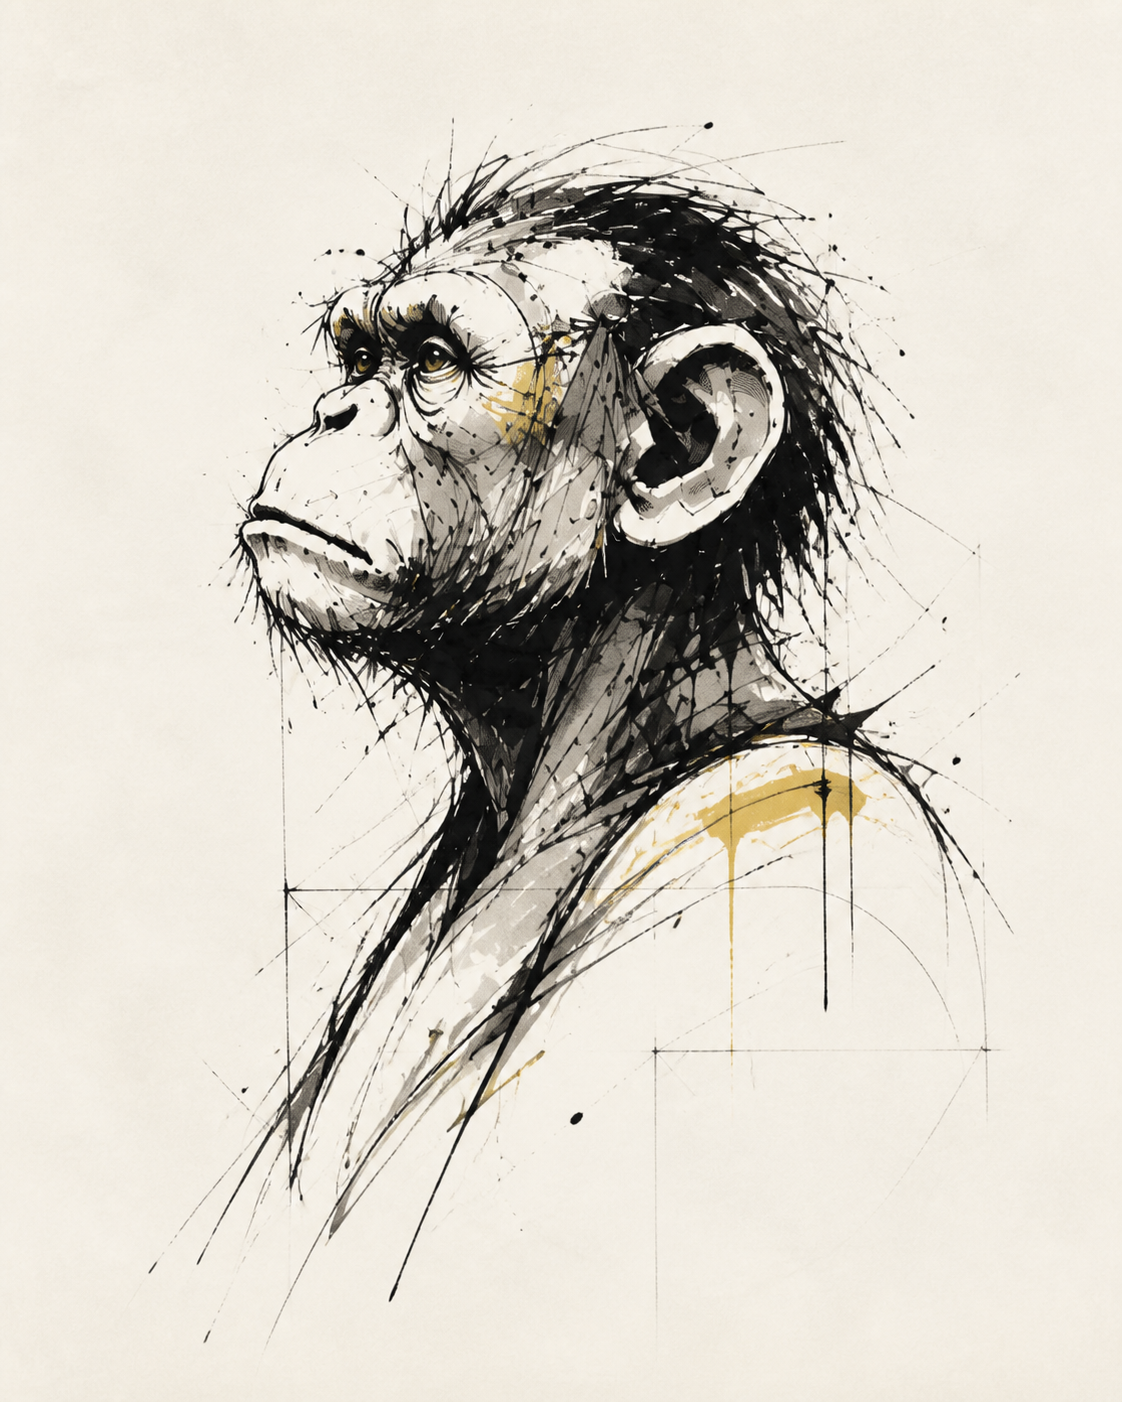
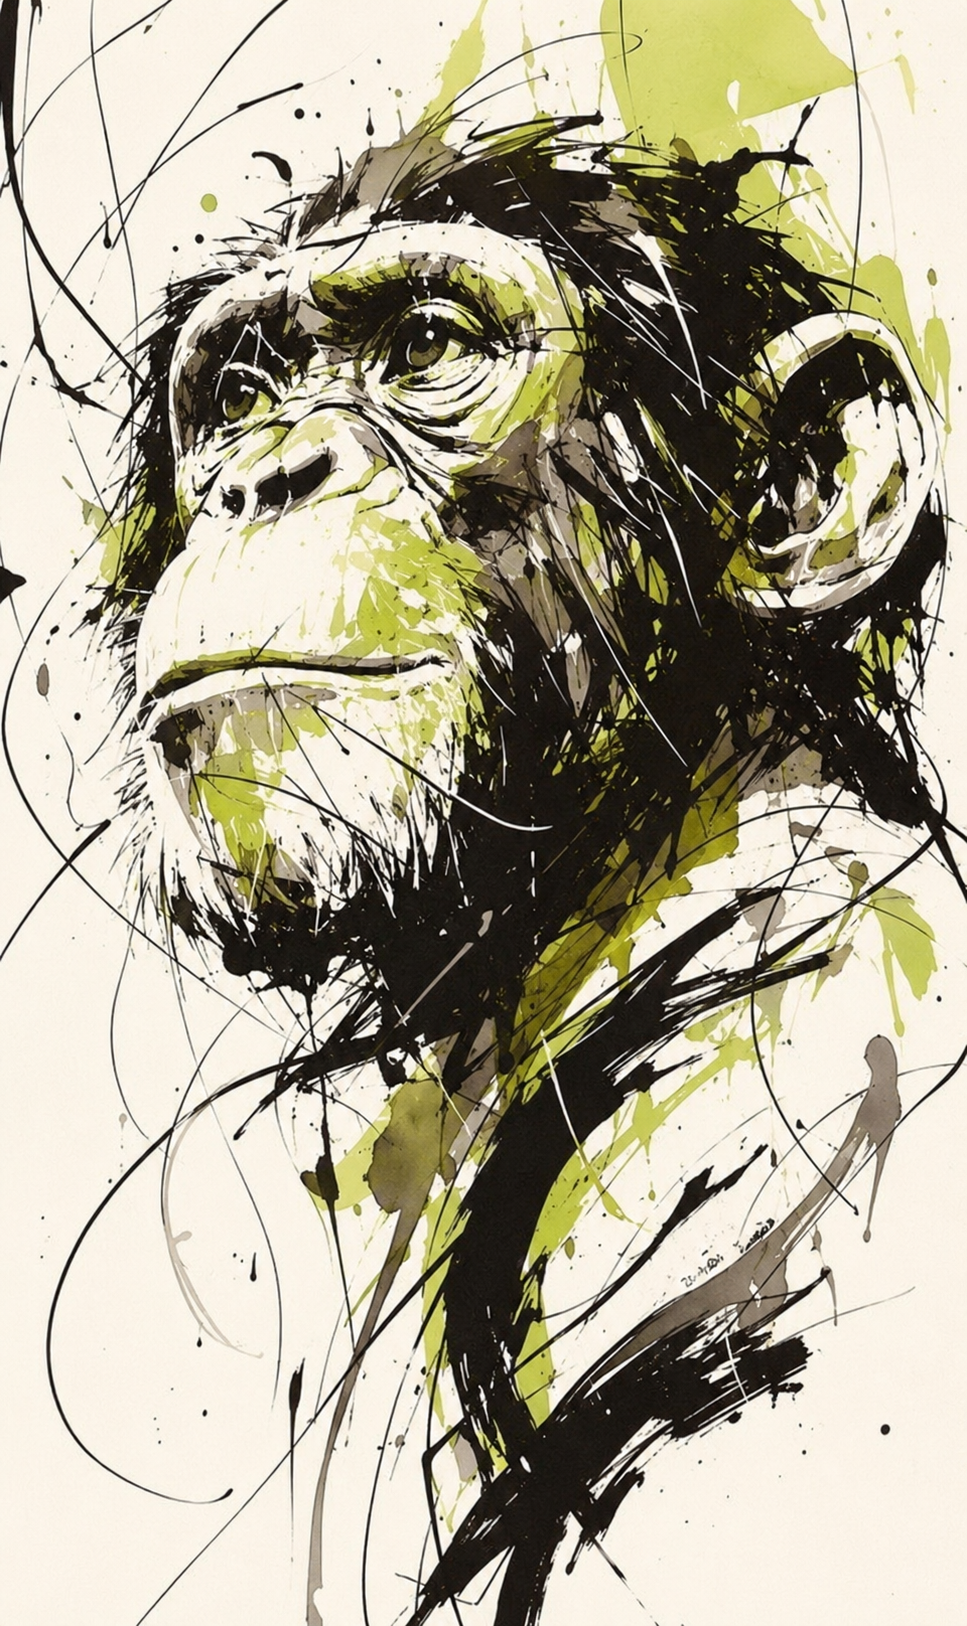
Replace chimpanzee portrait

diff --git a/app/globals.css b/app/globals.css
@@ -24,8 +24,8 @@ main { min-height:100vh; overflow:hidden; }
 .hero-copy h1,.page-intro h1,.phone-hero h1 { font-size:clamp(52px,8.4vw,126px); font-weight:520; line-height:.88; margin:22px 0 30px; }
 .hero-japanese { font-size:clamp(17px,1.8vw,26px); font-weight:760; } .hero-answer { border-left:6px solid var(--yellow); font-family:var(--font-geist-mono),monospace; font-size:11px; margin-top:20px; padding-left:12px; }
 .presence-strip { align-self:stretch; border-left:1px solid var(--ink); display:grid; grid-template-rows:1fr auto; min-height:520px; overflow:hidden; position:relative; }
-.presence-strip img { filter:contrast(1.08); height:100%; object-fit:cover; object-position:36% 34%; transform:scale(1.35); transition:transform 1.2s cubic-bezier(.2,.7,.2,1); width:100%; }
-.presence-strip:hover img { transform:scale(1.29) translateY(1%); }
+.presence-strip img { background:#f7f4ec; filter:contrast(1.04); height:100%; object-fit:cover; object-position:50% 31%; transform:scale(1.08); transition:transform 1.2s cubic-bezier(.2,.7,.2,1); width:100%; }
+.presence-strip:hover img { transform:scale(1.04) translateY(1%); }
 .presence-caption { background:var(--ink); color:var(--paper); display:grid; font-family:var(--font-geist-mono),monospace; font-size:9px; gap:5px; padding:15px; } .presence-caption strong { color:var(--yellow); font-size:12px; }
 .hero-note { align-items:center; display:flex; gap:14px; grid-column:1/-1; margin:22px 0 0 2vw; } .hero-note p { font-size:12px; font-weight:680; line-height:1.7; }
 .manifesto-band { align-items:center; background:var(--ink); color:var(--paper); display:flex; gap:28px; justify-content:space-between; min-height:112px; padding:24px clamp(20px,6vw,88px); }
@@ -44,7 +44,7 @@ main { min-height:100vh; overflow:hidden; }
 .profile-plate { display:grid; grid-template-columns:minmax(0,1.1fr) minmax(330px,.65fr); }
 .portrait-sheet { background:#f7f4ec; border-right:1px solid var(--ink); min-height:750px; overflow:hidden; position:relative; }
 .portrait-sheet::before { border:1px solid rgba(21,20,17,.28); content:""; inset:28px; pointer-events:none; position:absolute; z-index:1; }
-.portrait-sheet img { height:100%; object-fit:cover; object-position:center; width:100%; }
+.portrait-sheet img { height:100%; object-fit:cover; object-position:center 31%; width:100%; }
 .portrait-sheet figcaption { bottom:45px; display:flex; font-family:var(--font-geist-mono),monospace; font-size:9px; justify-content:space-between; left:46px; position:absolute; right:46px; z-index:2; }
 .profile-copy { align-self:center; padding:clamp(42px,6vw,88px); } .profile-copy h2 { font-size:clamp(42px,5vw,76px); font-weight:540; margin:12px 0 28px; }
 .short-statement { font-size:16px; font-weight:680; line-height:2; }

diff --git a/app/profile/page.tsx b/app/profile/page.tsx
@@ -5,7 +5,7 @@ export default function ProfilePage() {
   return <SiteShell current="profile" plate="ROOM 01 / PROFILE">
     <section className="page-intro compact-intro"><div><p className="kicker">Profile / Operating states</p><h1>The Fourth<br />Monkey</h1></div><p className="intro-copy">見ざる。聞かざる。言わざる。<br /><strong>そして、食べる。</strong></p></section>
     <section className="profile-plate">
-      <figure className="portrait-sheet"><img src="/chimpanzee-profile.png" alt="黒いインクと黄色で描かれた、思慮深いチンパンジーの横顔" /><figcaption><span>FIG. 04</span><span>PROFILE / LEFT</span><span>2026</span></figcaption></figure>
+      <figure className="portrait-sheet"><img src="/chimpanzee-profile.png" alt="黒いインクと黄緑で描かれた、思慮深いチンパンジーの正面肖像" /><figcaption><span>FIG. 04</span><span>PROFILE / LEFT</span><span>2026</span></figcaption></figure>
       <div className="profile-copy"><p className="kicker">Subject identification</p><h2>CHIMPANZEE</h2><p className="short-statement">バナナのために生きる。<br />学ばない、恐れない、縛られない。<br />そして、バナナに対しては一歩も譲らない。</p>
         <dl className="catalog-specs"><div><dt>Role</dt><dd>Banana Phone Developer</dd></div><div><dt>Base</dt><dd>Forest Office / Somewhere</dd></div><div><dt>Method</dt><dd>Eat. Think later.</dd></div><div><dt>Since</dt><dd>2026</dd></div></dl><blockquote>“The Fourth Monkey Eats.”</blockquote>
       </div>

diff --git a/app/page.tsx b/app/page.tsx
@@ -18,7 +18,7 @@ export default function Home() {
           <p className="hero-answer">NO REASON REQUIRED. / 2026</p>
         </div>
         <div className="presence-strip" aria-label="チンパンジーの肖像断片">
-          <img src="/chimpanzee-profile.png" alt="黒いインクと黄色で描かれたチンパンジーの横顔の断片" />
+          <img src="/chimpanzee-profile.png" alt="黒いインクと黄緑で描かれたチンパンジーの正面肖像の断片" />
           <div className="presence-caption"><span>SUBJECT 04</span><strong>CHIMPANZEE</strong><span>STATUS / ATTENTIVE</span></div>
         </div>
         <aside className="hero-note"><span className="status-light" /><p>黄色は装飾ではない。<br />判断と作動のためにある。</p></aside>
